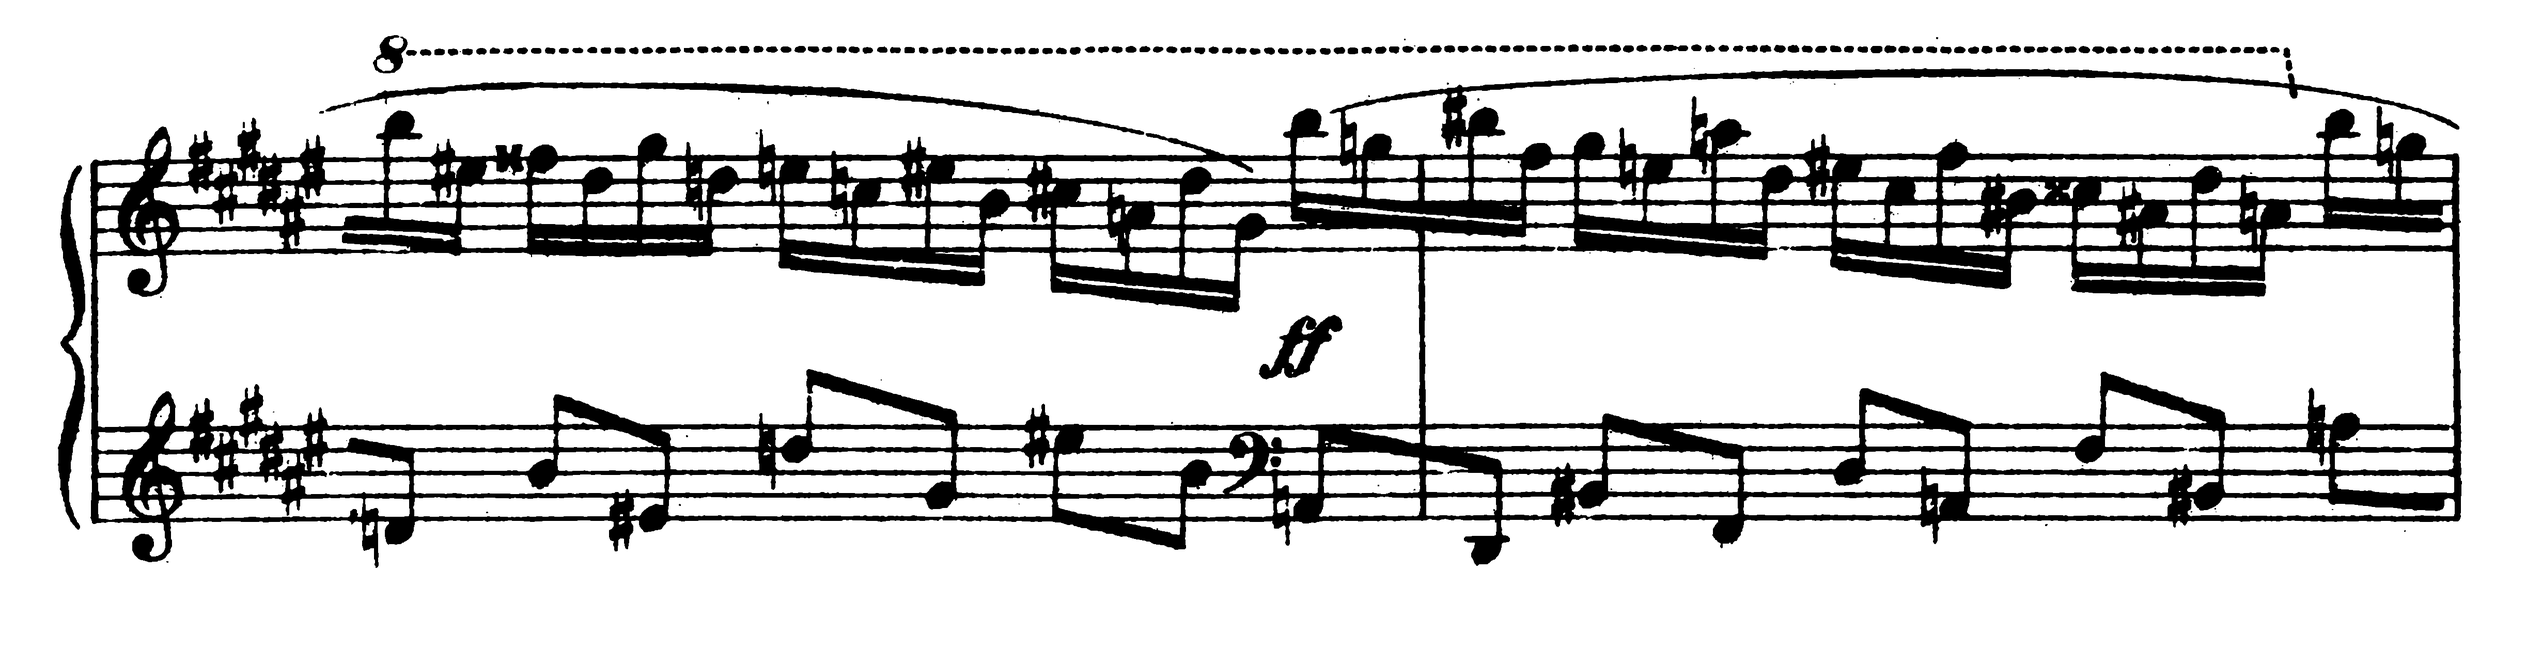
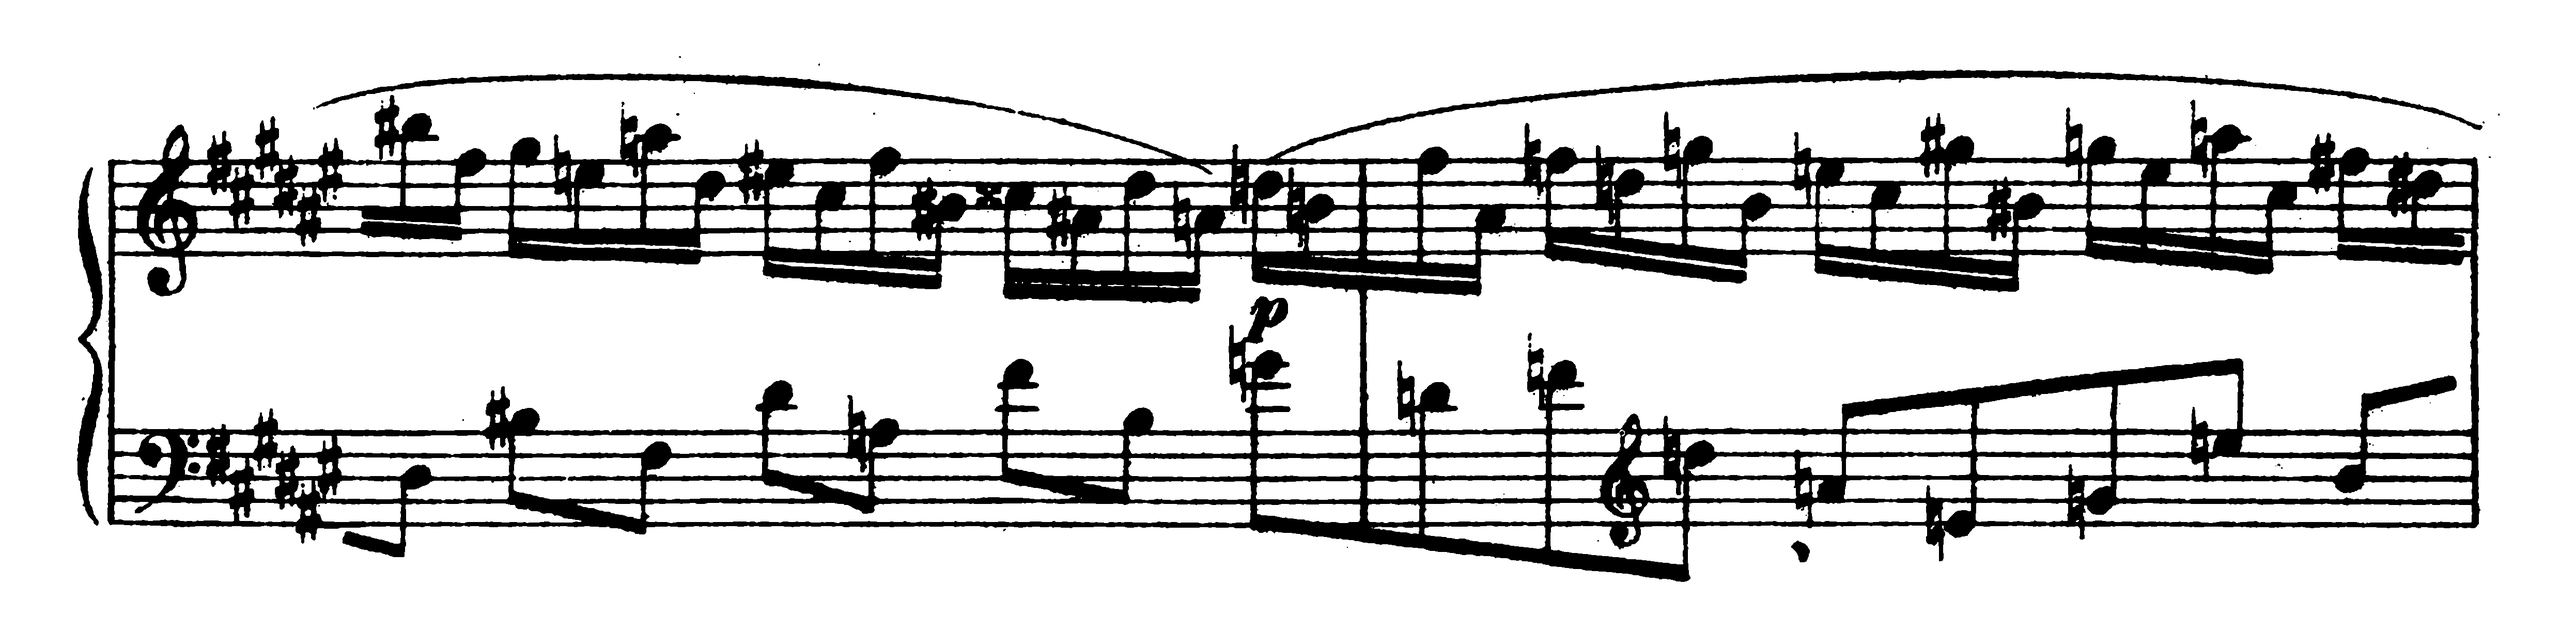
player slides

Changed region(s): [[0.0, 0.0621, 0.9947, 0.9314]]

diff --git a/js/project.js b/js/project.js
@@ -8,44 +8,79 @@ $(document).ready(function () {
         controls: true,
     });
 
-    var bars = {
-        etude: [
-            { time: 0, slide: "images/etude_01.png" },
-            { time: 0, slide: "images/etude_02.png" },
-            { time: 0, slide: "images/etude_03.png" },
-            { time: 0, slide: "images/etude_04.png" },
-            { time: 0, slide: "images/etude_05.png" },
-            { time: 0, slide: "images/etude_06.png" },
-            { time: 0, slide: "images/etude_07.png" },
-            { time: 0, slide: "images/etude_08.png" },
-            { time: 0, slide: "images/etude_09.png" },
-            { time: 0, slide: "images/etude_10.png" },
-            { time: 0, slide: "images/etude_11.png" },
-            { time: 0, slide: "images/etude_12.png" },
-            { time: 0, slide: "images/etude_13.png" },
-            { time: 0, slide: "images/etude_14.png" },
-            { time: 0, slide: "images/etude_15.png" },
-            { time: 0, slide: "images/etude_16.png" },
-            { time: 0, slide: "images/etude_17.png" },
-            { time: 0, slide: "images/etude_18.png" },
-            { time: 0, slide: "images/etude_19.png" },
-            { time: 0, slide: "images/etude_20.png" },
-            { time: 0, slide: "images/etude_21.png" },
-            { time: 0, slide: "images/etude_22.png" },
-            { time: 0, slide: "images/etude_23.png" },
-            { time: 0, slide: "images/etude_24.png" },
-            { time: 0, slide: "images/etude_25.png" },
-            { time: 0, slide: "images/etude_26.png" },
-            { time: 0, slide: "images/etude_27.png" },
-            { time: 0, slide: "images/etude_28.png" },
-            { time: 0, slide: "images/etude_29.png" },
-            { time: 0, slide: "images/etude_30.png" },
-            { time: 0, slide: "images/etude_31.png" },
-            { time: 0, slide: "images/etude_32.png" }
-
-
+    var etude = {
+        bars: [
+            { timestamp: 0, slide: "images/etude_01.png" },
+            { timestamp: 6.550132, slide: "images/etude_02.png" },
+            { timestamp: 9.801912, slide: "images/etude_03.png" },
+            { timestamp: 13.048044, slide: "images/etude_04.png" },
+            { timestamp: 16.548566, slide: "images/etude_05.png" },
+            { timestamp: 19.797478, slide: "images/etude_06.png" },
+            { timestamp: 23.04739, slide: "images/etude_07.png" },
+            { timestamp: 26.55007, slide: "images/etude_08.png" },
+            { timestamp: 31.800642, slide: "images/etude_09.png" },
+            { timestamp: 35.301439, slide: "images/etude_10.png" },
+            { timestamp: 39.050492, slide: "images/etude_11.png" },
+            { timestamp: 42.548469, slide: "images/etude_12.png" },
+            { timestamp: 46.05173, slide: "images/etude_13.png" },
+            { timestamp: 49.54824, slide: "images/etude_14.png" },
+            { timestamp: 53.048733, slide: "images/etude_15.png" },
+            { timestamp: 56.548206, slide: "images/etude_16.png" },
+            { timestamp: 62.047682, slide: "images/etude_17.png" },
+            { timestamp: 65.301837, slide: "images/etude_18.png" },
+            { timestamp: 68.797311, slide: "images/etude_19.png" },
+            { timestamp: 72.548676, slide: "images/etude_20.png" },
+            { timestamp: 76.297741, slide: "images/etude_21.png" },
+            { timestamp: 80.050143, slide: "images/etude_22.png" },
+            { timestamp: 83.547464, slide: "images/etude_23.png" },
+            { timestamp: 87.047796, slide: "images/etude_24.png" },
+            { timestamp: 90.547334, slide: "images/etude_25.png" },
+            { timestamp: 95.548295, slide: "images/etude_26.png" },
+            { timestamp: 100.300205, slide: "images/etude_27.png" },
+            { timestamp: 103.551696, slide: "images/etude_28.png" },
+            { timestamp: 108.547763, slide: "images/etude_29.png" },
+            { timestamp: 112.050329, slide: "images/etude_30.png" },
+            { timestamp: 115.297596, slide: "images/etude_31.png" },
+            { timestamp: 118.550042, slide: "images/etude_32.png" },
+            { timestamp: 122.049753, slide: "images/etude_33.png" },
+            { timestamp: 125.04795, slide: "images/etude_34.png" },
+            { timestamp: 128.302312, slide: "images/etude_35.png" }
         ]
+    };
+
+    player.on("time", function (evt) {
+        showMeasure(evt.position);
+        /*
+        $("#slides").click(function () {
+            console.log(evt.position);
+        });
+        */
+    });
+
+    function showMeasure(time) {
+        /*
+        for (var i = 0; i <= etude.bars.length - 1; i++) {
+            if (time >= etude.bars[i].start && time <= (etude.bars[i].start + etude.bars[i].dur)) {
+                $("#slides").html(`<img class="img-fluid" src=${etude.bars[i].slide}>`);
+                console.log(etude.bars[i].slide)
+                return;
+            }
+        }
+        */
+
+        for (var i = etude.bars.length - 1; i >= 0; i--) {
+            if (etude.bars[i].timestamp <= time) {
+                $("#slides").html(`<img class="img-fluid" src=${etude.bars[i].slide}>`);
+                return;
+            }
+        }
     }
+
+
+
+
+
 
     console.log("Document ready");
 });// End ready
+

diff --git a/final_project.html b/final_project.html
@@ -4,6 +4,8 @@
 <head>
     <title>Glenn Langdon CSCI E3</title>
     <link rel="stylesheet" href="css/styles.css">
+    <link rel="stylesheet" href="https://stackpath.bootstrapcdn.com/bootstrap/4.3.1/css/bootstrap.min.css"
+        integrity="sha384-ggOyR0iXCbMQv3Xipma34MD+dH/1fQ784/j6cY/iJTQUOhcWr7x9JvoRxT2MZw1T" crossorigin="anonymous">
     <script type="text/javascript" src="https://cdn.jwplayer.com/libraries/uWGJtys0.js"></script>
     <script src="https://ajax.googleapis.com/ajax/libs/jquery/3.5.1/jquery.min.js"></script>
     <script src="js/project.js" type="text/javascript"></script>
@@ -13,7 +15,10 @@
 <body>
     <p>This is my final project</p>
     <div id="videoDiv"></div>
-    <div id="slides"></div>
+    <div id="slides">
+        <!--<img class="img-fluid" src="images/etude_01.png">-->
+    </div>
+
 
 </body>
 

diff --git a/css/styles.css b/css/styles.css
@@ -1,3 +1,11 @@
 body {
     font-family: "Gill Sans", "Gill Sans MT", Calibri, "Trebuchet MS", sans-serif;
 }
+#slides {
+    height: 175px;
+    width: 640px;
+    border: 1px solid black;
+    margin-top: 20px;
+}
+.stravinsky {
+}
